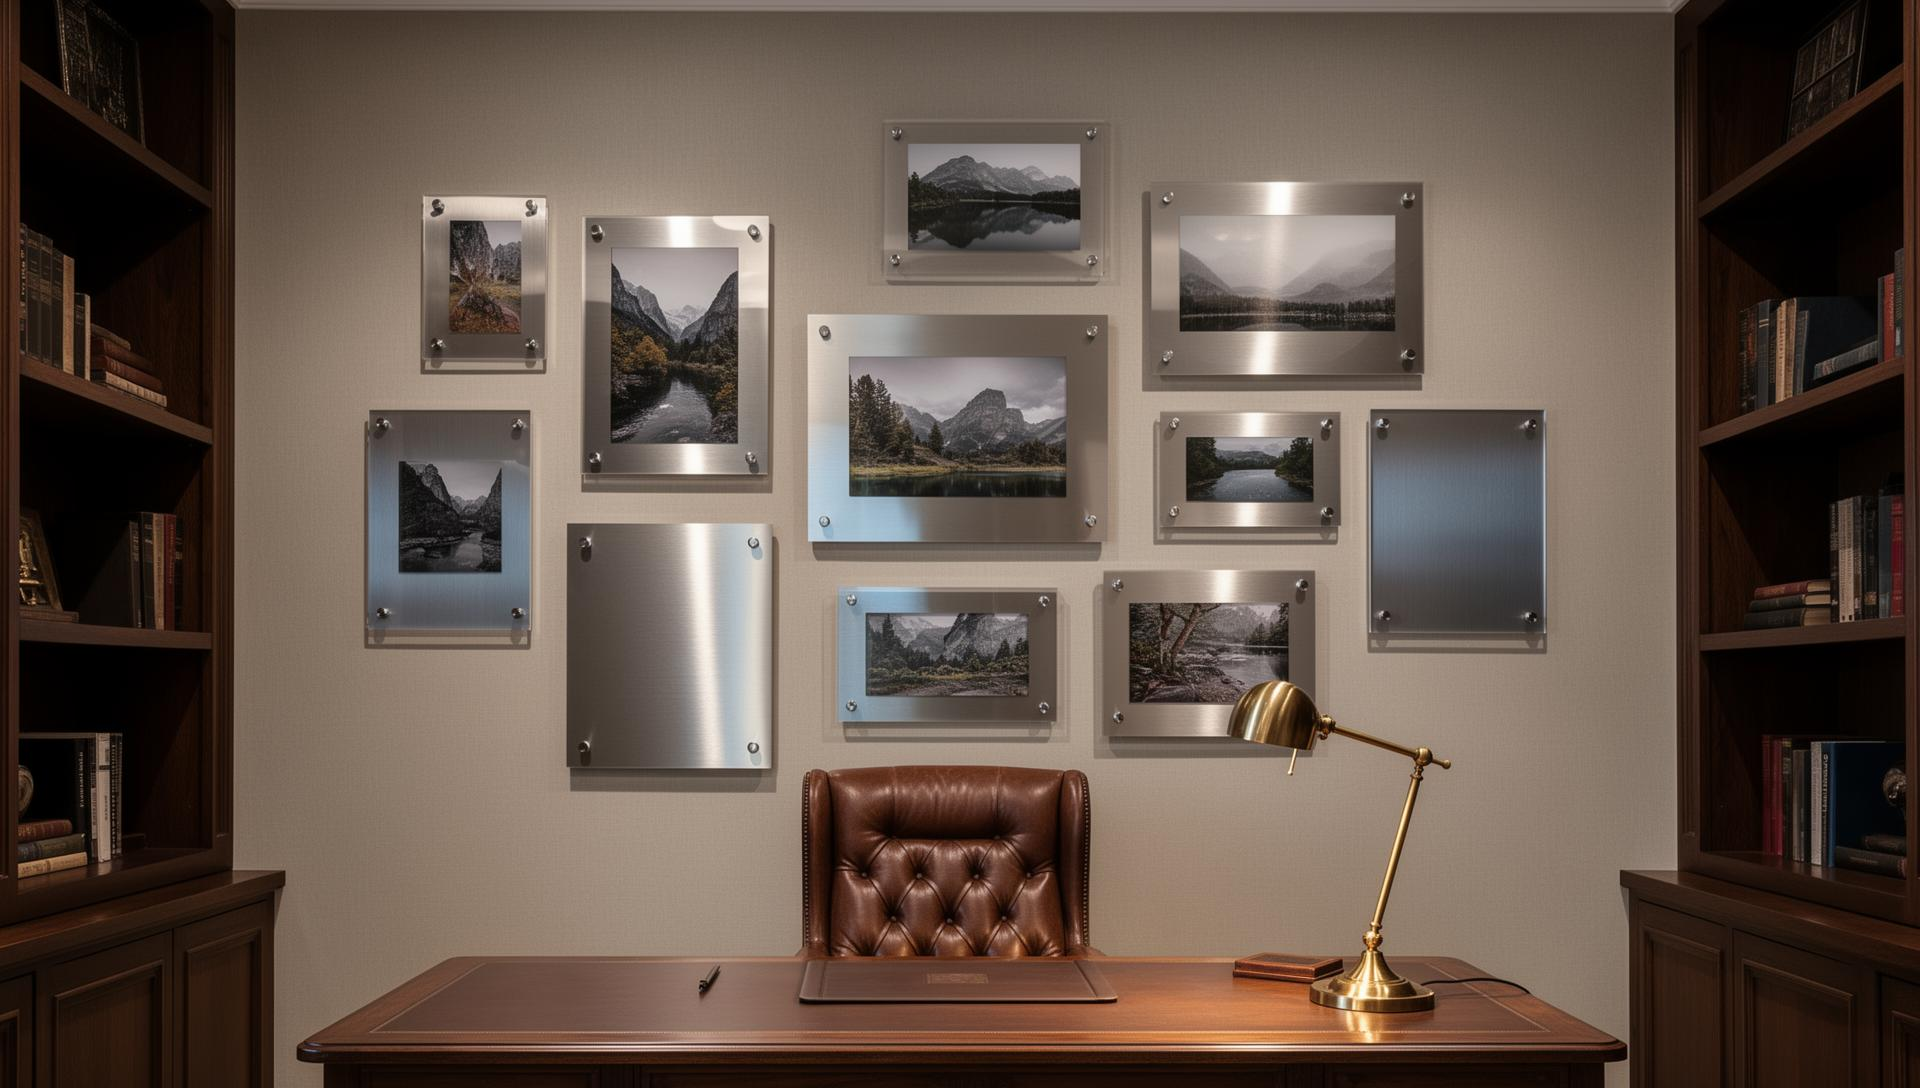
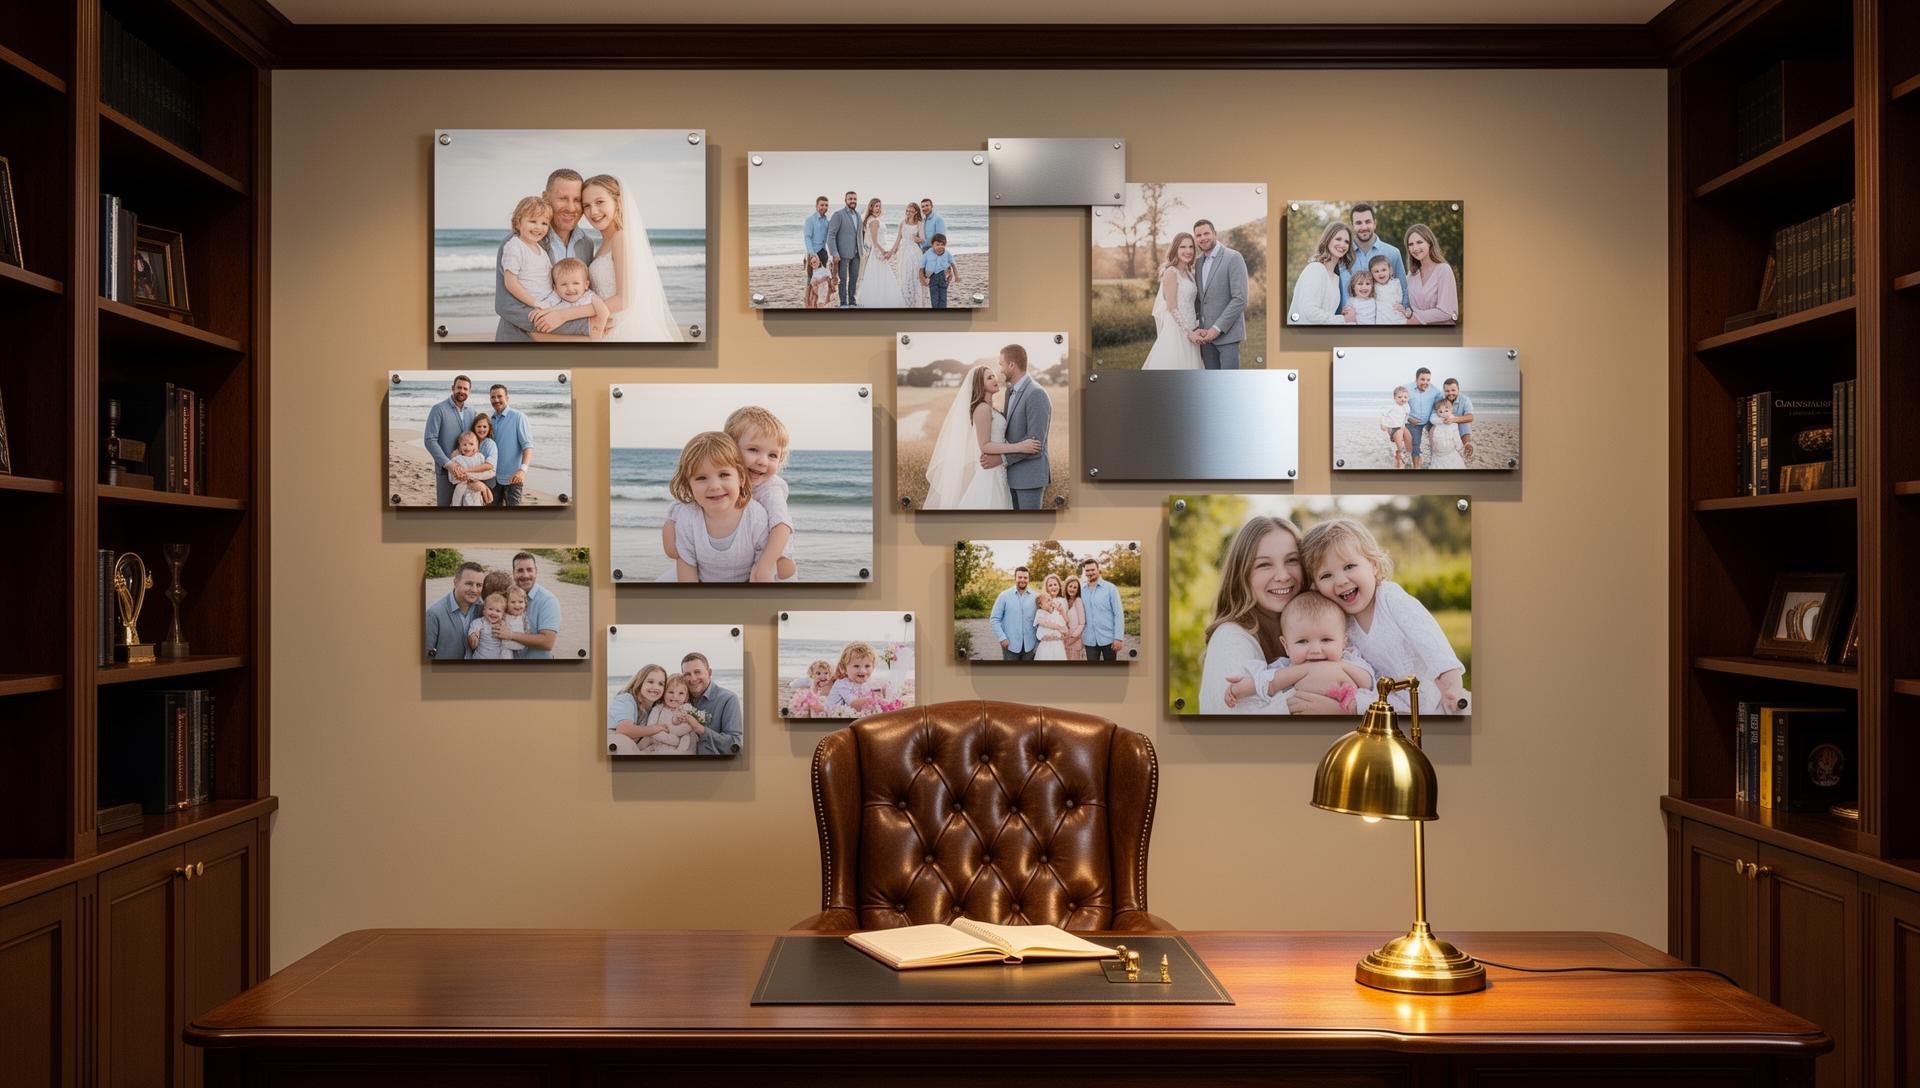
Changes

diff --git a/src/components/LuxuryShowcase.tsx b/src/components/LuxuryShowcase.tsx
@@ -31,8 +31,8 @@ const slides = [
   },
   {
     image: metalOffice,
-    label: "Gallery Wall",
-    caption: "A mix of acrylic and metal prints with stand-off hardware creates a curated gallery wall in a private study.",
+    label: "Family Gallery Wall",
+    caption: "Frameless family photos on acrylic and metal with stand-off mounts create a deeply personal gallery wall.",
   },
 ];
 
